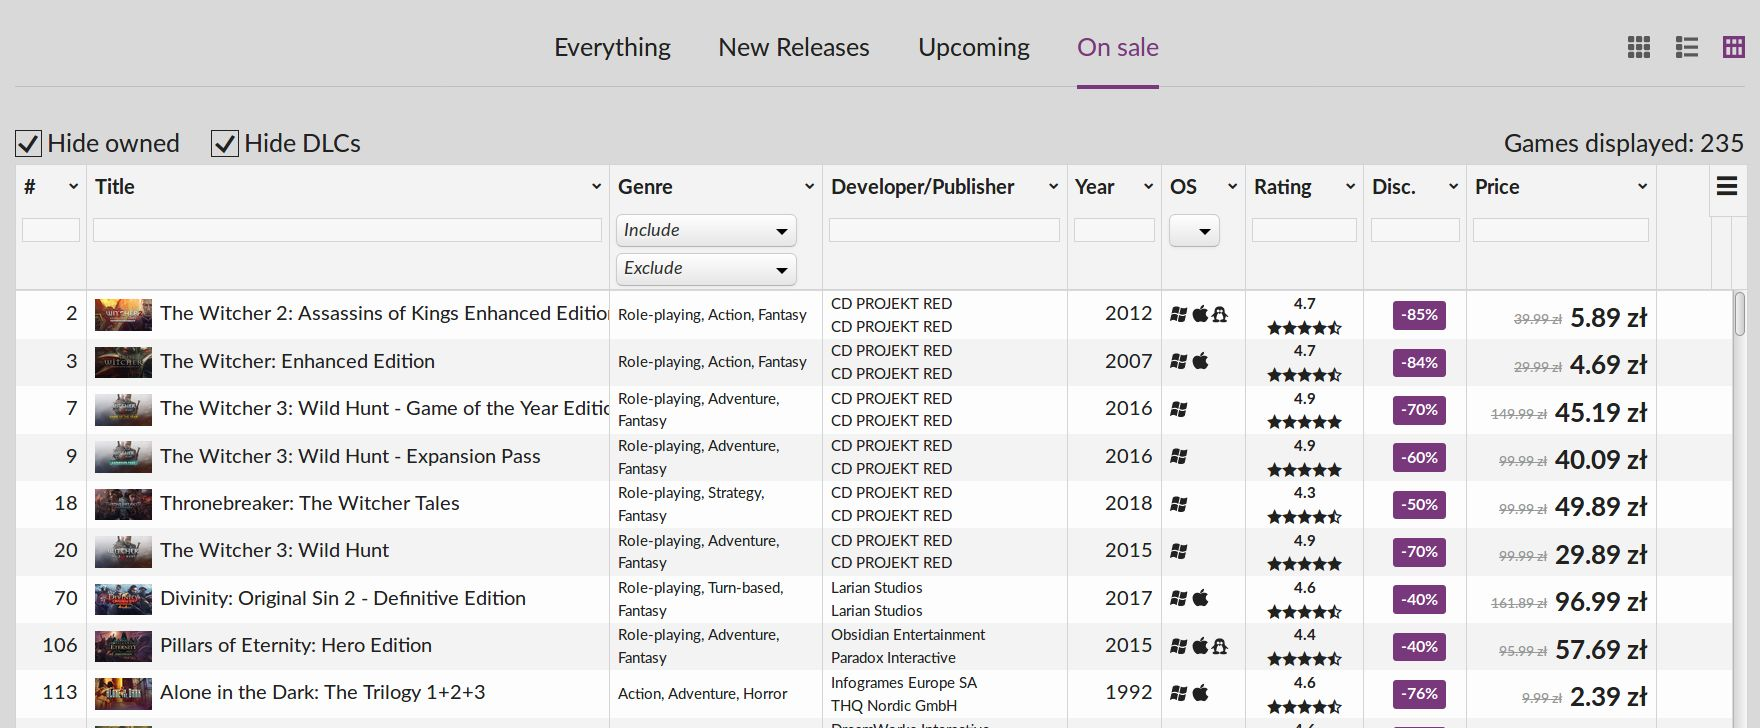
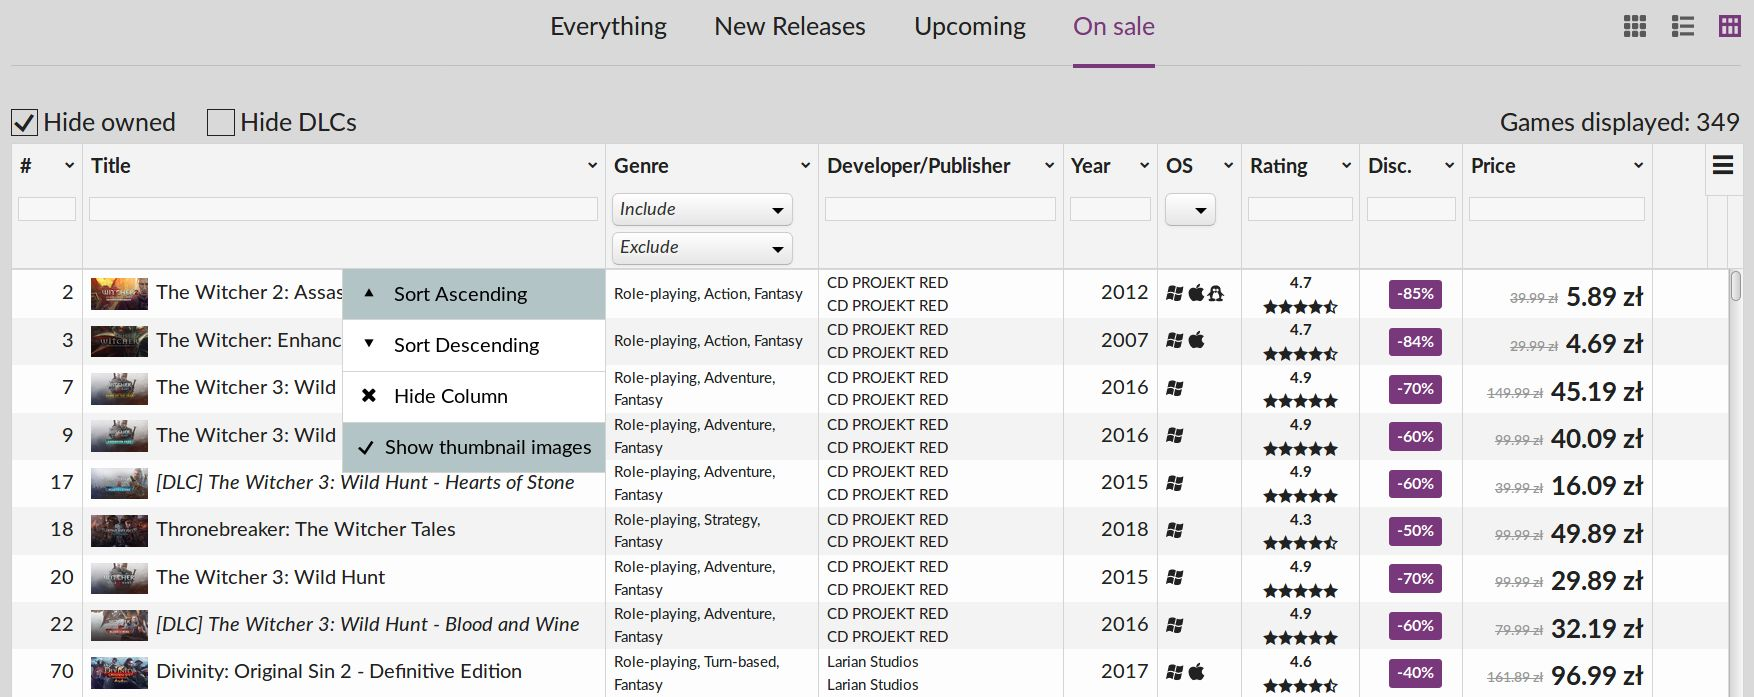
readme fixes

diff --git a/README.md b/README.md
@@ -33,6 +33,7 @@ This user script adds a third way to display games in the store view at [https:/
   * operator-value pairs, eg. discount ">=75", price "<10"
 - For the price filter, the 0.01 rounding is taken into account when filtering, eg. both "10" and ">=10" filters will include 9.99 priced games.
 - TBA games have their price internally set to -1 for purposes of sorting and filtering. Use "0.1-10" range filter instead of "<10" operator filter if you want to exclude free/TBA games from your searches (doesn't affect 'On Sale' tab, as free/TBA games are never discounted).
+- Thumbnail images can be turned on from 'Title' column's menu
 
 ## Example filters
 
@@ -47,6 +48,9 @@ The golden age of adventures:
 
 Bestselling rank checking:
 ![](https://github.com/ghorint2t/scripts/raw/master/doc/img/rank_checking.jpg "Rank checking")
+
+Thumbnail images:
+![](https://github.com/ghorint2t/scripts/raw/master/doc/img/colors.jpg "Colors")
 
 ## Notes
 
